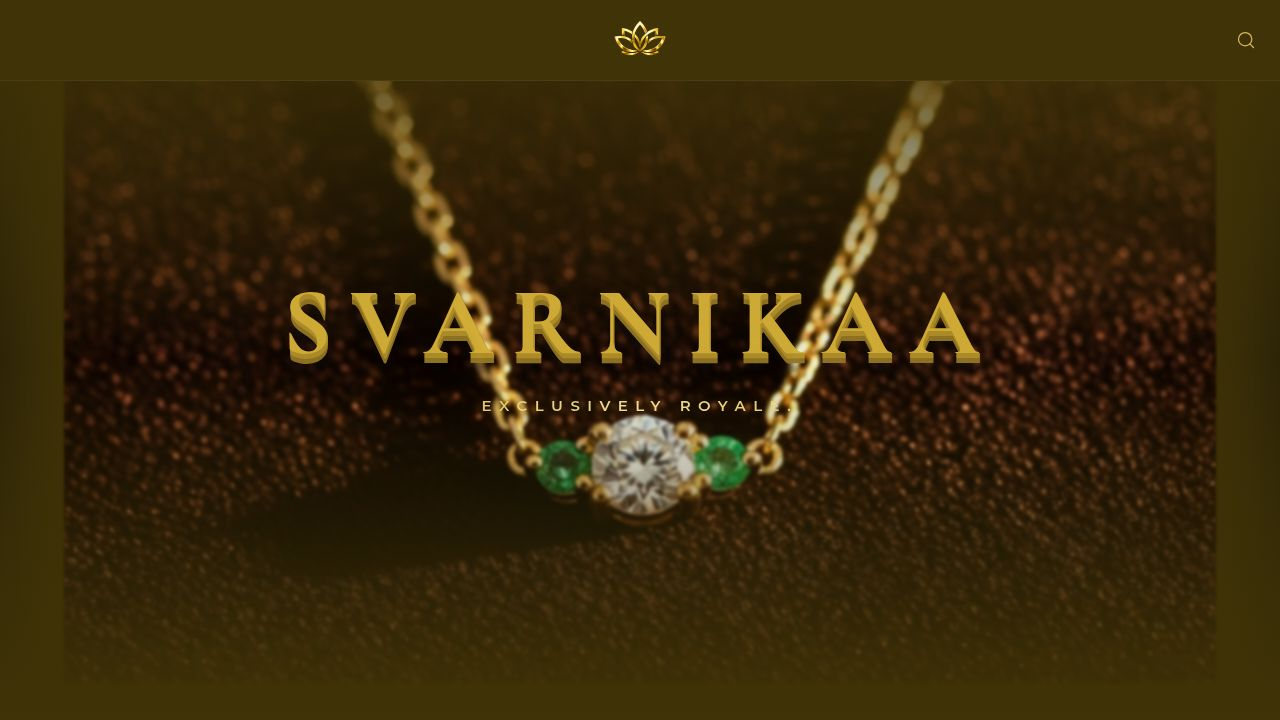
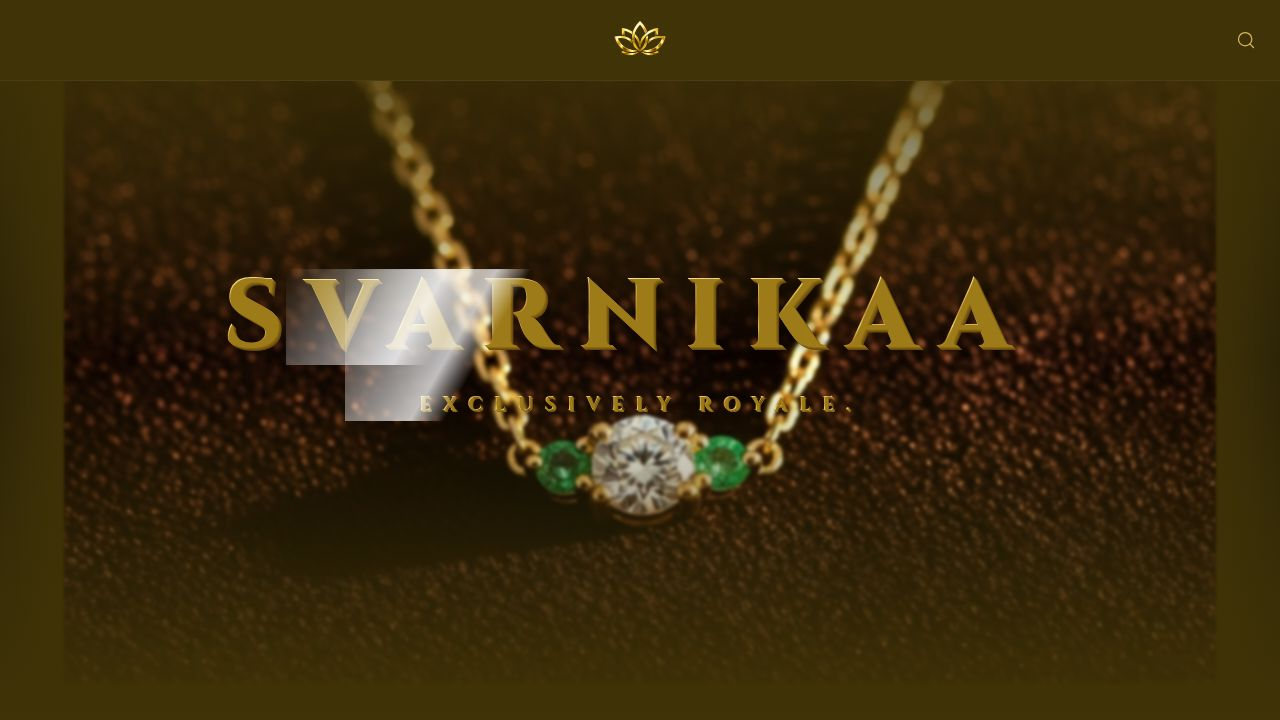
Apply metallic golden yellow effect to subtitle
Update CSS to include a new class `subtitle-shine` for styling the subtitle with a metallic golden yellow gradient and shadow, and apply this class to the "Exclusively Royale." tagline in the home page component.

Replit-Commit-Author: Agent
Replit-Commit-Session-Id: d6308ce8-210d-4710-8d6c-4334cb83b47e
Replit-Commit-Checkpoint-Type: full_checkpoint
Replit-Commit-Event-Id: c07de391-80a8-4e77-a076-5ab3b206f62d
Replit-Commit-Screenshot-Url: https://storage.googleapis.com/screenshot-production-us-central1/52b88d60-5a51-4048-b036-c272065d7ab3/d6308ce8-210d-4710-8d6c-4334cb83b47e/SB7oN0w
Replit-Helium-Checkpoint-Created: true

Changed region(s): [[0.1562, 0.3667, 0.8125, 0.6111]]

diff --git a/client/src/index.css b/client/src/index.css
@@ -114,7 +114,31 @@
         6px 6px 12px rgba(0,0,0,0.35);
   }
 
-  .title-shine::before {
+  .subtitle-shine {
+    @apply relative overflow-hidden;
+    text-transform: uppercase;
+    font-family: "Cinzel", serif;
+    font-weight: 700;
+    letter-spacing: 0.6em;
+    background: linear-gradient(
+        180deg,
+        #fff4c2 0%,
+        #f5d76e 15%,
+        #e6b85c 30%,
+        #c89b3c 45%,
+        #ffd97a 60%,
+        #b8892b 75%,
+        #8d6b1f 100%
+    );
+    -webkit-background-clip: text;
+    -webkit-text-fill-color: transparent;
+    text-shadow:
+        1px 1px 0 #9e7c19,
+        1px 2px 0 #8c6a12,
+        4px 4px 8px rgba(0,0,0,0.3);
+  }
+
+  .subtitle-shine::before {
     content: '';
     position: absolute;
     top: 0;

diff --git a/client/src/pages/home.tsx b/client/src/pages/home.tsx
@@ -33,7 +33,7 @@ export default function Home() {
             <h1 className="title-shine text-5xl md:text-7xl lg:text-8xl leading-none mb-6 w-[120%] -ml-[10%] pr-[0.25em]">
               SVARNIKAA
             </h1>
-            <p className="font-sans text-[13px] md:text-[15px] tracking-[0.5em] uppercase text-transparent bg-clip-text bg-gradient-to-r from-[#D4AF37] via-[#F9E498] to-[#D4AF37] font-bold drop-shadow-[0_0_8px_rgba(212,175,55,0.3)]">
+            <p className="subtitle-shine text-[11px] md:text-[13px] leading-relaxed">
               Exclusively Royale.
             </p>
           </motion.div>
